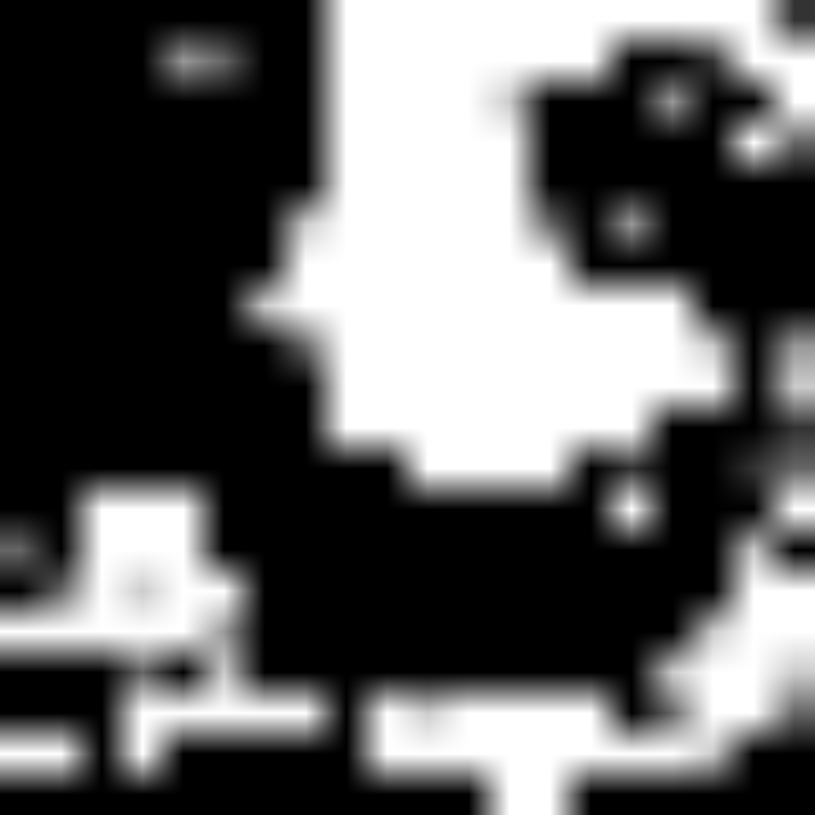
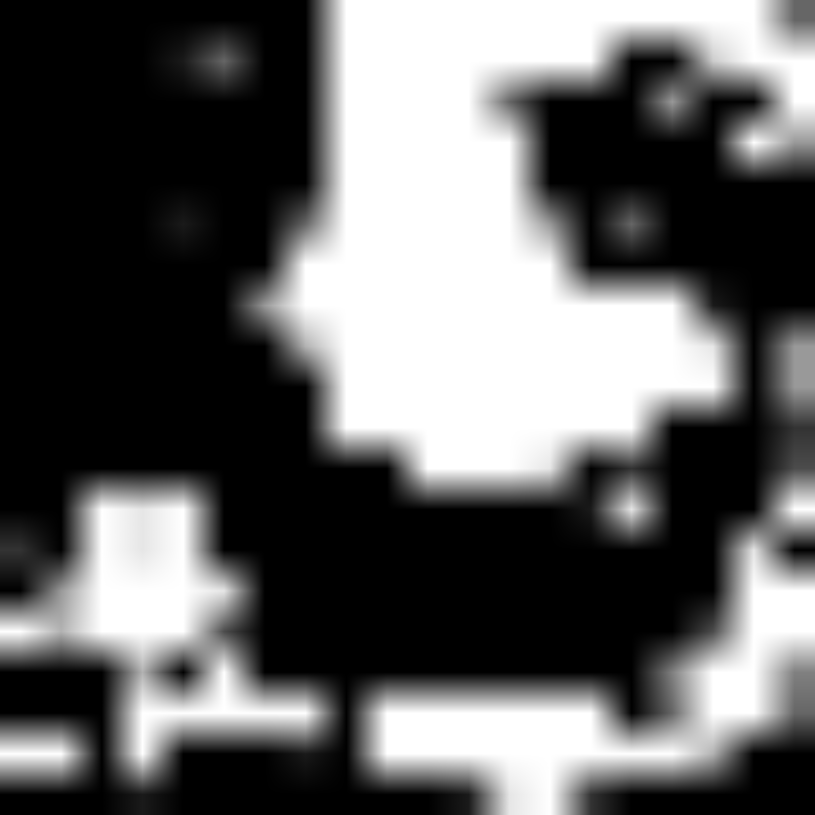
working find_object and selected heat maps

diff --git a/find_object_in_scene.py b/find_object_in_scene.py
@@ -11,7 +11,7 @@ from neuralNet import Detector
 
 # parameters 
 path_to_model = "./tmp/original"
-path_scan_prefix = "./scan_images/set-3/"
+path_scan_prefix = "./scan_images/set-2/"
 num_iter = 10
 
 
